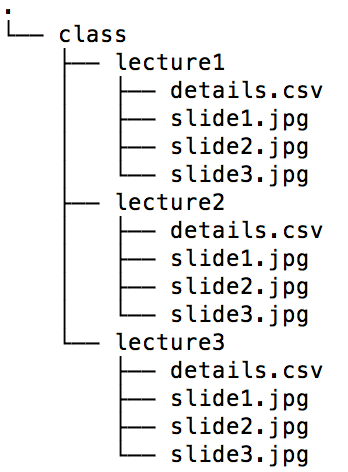
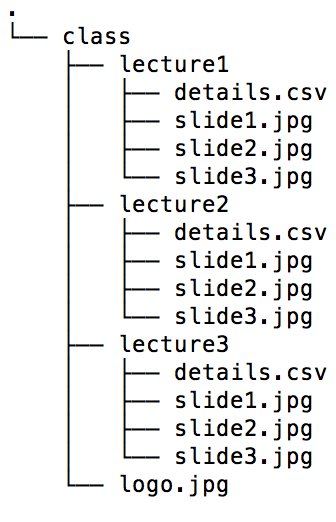
upload manual

Changed region(s): [[0.0, 0.0, 0.9821, 1.0]]

diff --git a/templates/upload_manual.html b/templates/upload_manual.html
@@ -4,13 +4,14 @@
 
 {% block title %}<title>Upload manual</title> {% endblock %}
 {% block content %}
-
+<div style="padding-bottom: 20px;padding-top: 20px;max-width:600px">
     <h2>Before uploading files</h2>
     <ol>
         <li type="1">
             <p>Make sure, that your file structure looks as followed:</p>
             <img src="{% static 'structure.png' %}" height="300">
-            <p>A class folder contains folders with lecture slides as well as the 'details.csv'</p>
+            <p>A class folder contains folders with lecture slides as well as the 'details.csv'. 
+                If you want a logo to be displayed, place image in the root folder. Make sure to call it "logo.jpg"</p>
         </li>
         <li type="1">
             <p>Include the 'details.csv' file in every lecture folder</p>
@@ -22,6 +23,11 @@
                 subchapter's title and the slide number, where this subchapter starts.</p>
         </li>
         <li type="1">
+                <p>If you include a link in the third column, it will be automatically added 
+                    to the web page right after the subchapter title.:</p>
+                <img src="{% static 'details2.png' %}" height="90">
+            </li>
+        <li type="1">
             <p>Please use only .jpg, .jpeg or .png for the slides. Other file formats will be ignored.</p>
         </li>
         <li type="1">
@@ -32,6 +38,7 @@
                  but it can affect their order - names are sorted alphabetically. </p>
         </li>
     </ol>
+</div>
 
 
 {% endblock %}
